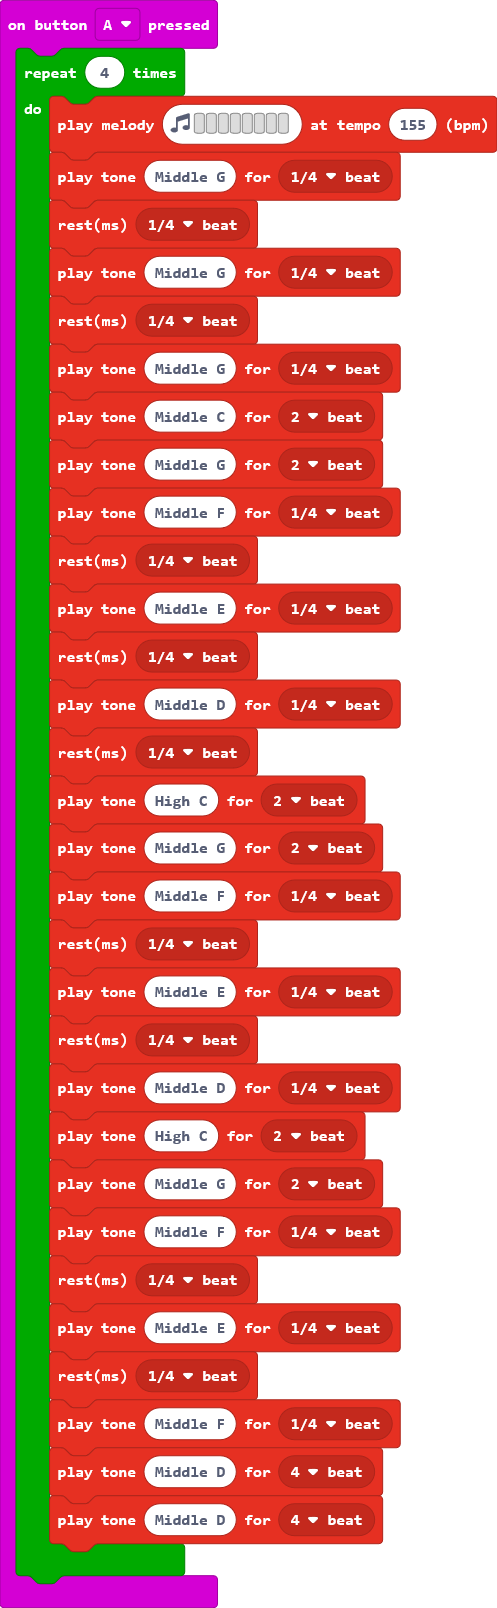
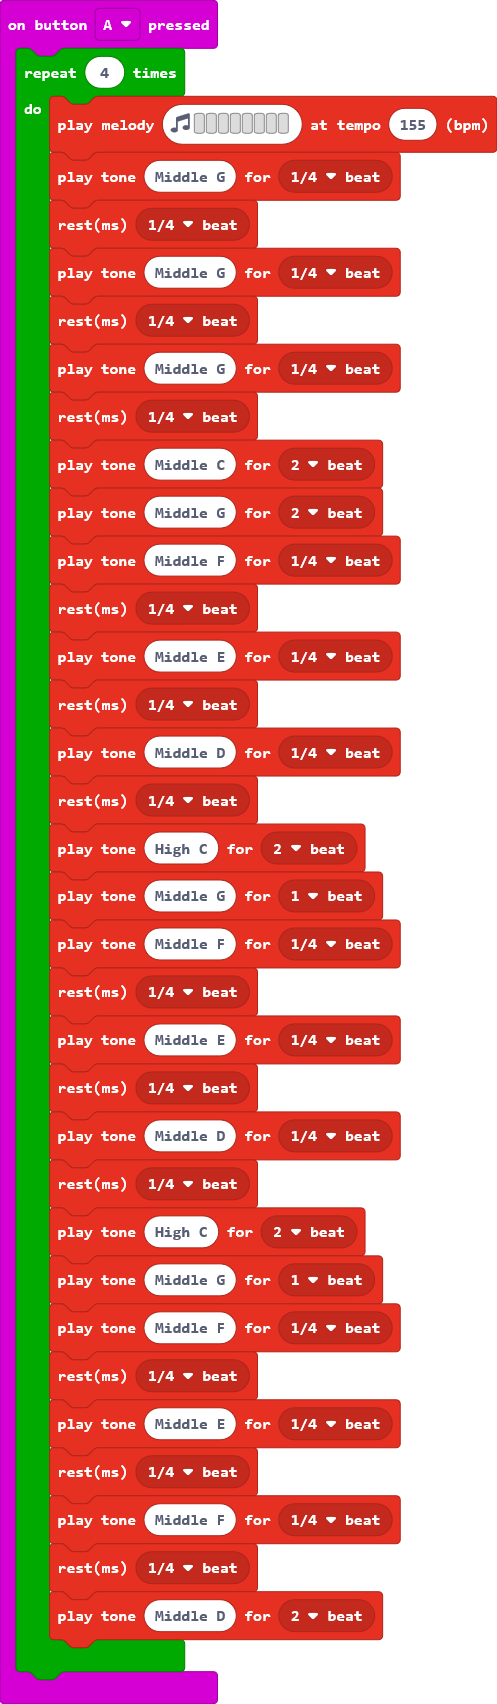
Update main.blocks, main.ts

Changed region(s): [[0.0604, 0.0, 1.0, 0.995], [0.0302, 0.0, 0.0604, 0.0311]]

diff --git a/main.ts b/main.ts
@@ -6,6 +6,7 @@ input.onButtonPressed(Button.A, function () {
         music.playTone(392, music.beat(BeatFraction.Quarter))
         music.rest(music.beat(BeatFraction.Quarter))
         music.playTone(392, music.beat(BeatFraction.Quarter))
+        music.rest(music.beat(BeatFraction.Quarter))
         music.playTone(262, music.beat(BeatFraction.Double))
         music.playTone(392, music.beat(BeatFraction.Double))
         music.playTone(349, music.beat(BeatFraction.Quarter))
@@ -15,20 +16,21 @@ input.onButtonPressed(Button.A, function () {
         music.playTone(294, music.beat(BeatFraction.Quarter))
         music.rest(music.beat(BeatFraction.Quarter))
         music.playTone(523, music.beat(BeatFraction.Double))
-        music.playTone(392, music.beat(BeatFraction.Double))
+        music.playTone(392, music.beat(BeatFraction.Whole))
         music.playTone(349, music.beat(BeatFraction.Quarter))
         music.rest(music.beat(BeatFraction.Quarter))
         music.playTone(330, music.beat(BeatFraction.Quarter))
         music.rest(music.beat(BeatFraction.Quarter))
         music.playTone(294, music.beat(BeatFraction.Quarter))
+        music.rest(music.beat(BeatFraction.Quarter))
         music.playTone(523, music.beat(BeatFraction.Double))
-        music.playTone(392, music.beat(BeatFraction.Double))
+        music.playTone(392, music.beat(BeatFraction.Whole))
         music.playTone(349, music.beat(BeatFraction.Quarter))
         music.rest(music.beat(BeatFraction.Quarter))
         music.playTone(330, music.beat(BeatFraction.Quarter))
         music.rest(music.beat(BeatFraction.Quarter))
         music.playTone(349, music.beat(BeatFraction.Quarter))
-        music.playTone(294, music.beat(BeatFraction.Breve))
-        music.playTone(294, music.beat(BeatFraction.Breve))
+        music.rest(music.beat(BeatFraction.Quarter))
+        music.playTone(294, music.beat(BeatFraction.Double))
     }
 })
